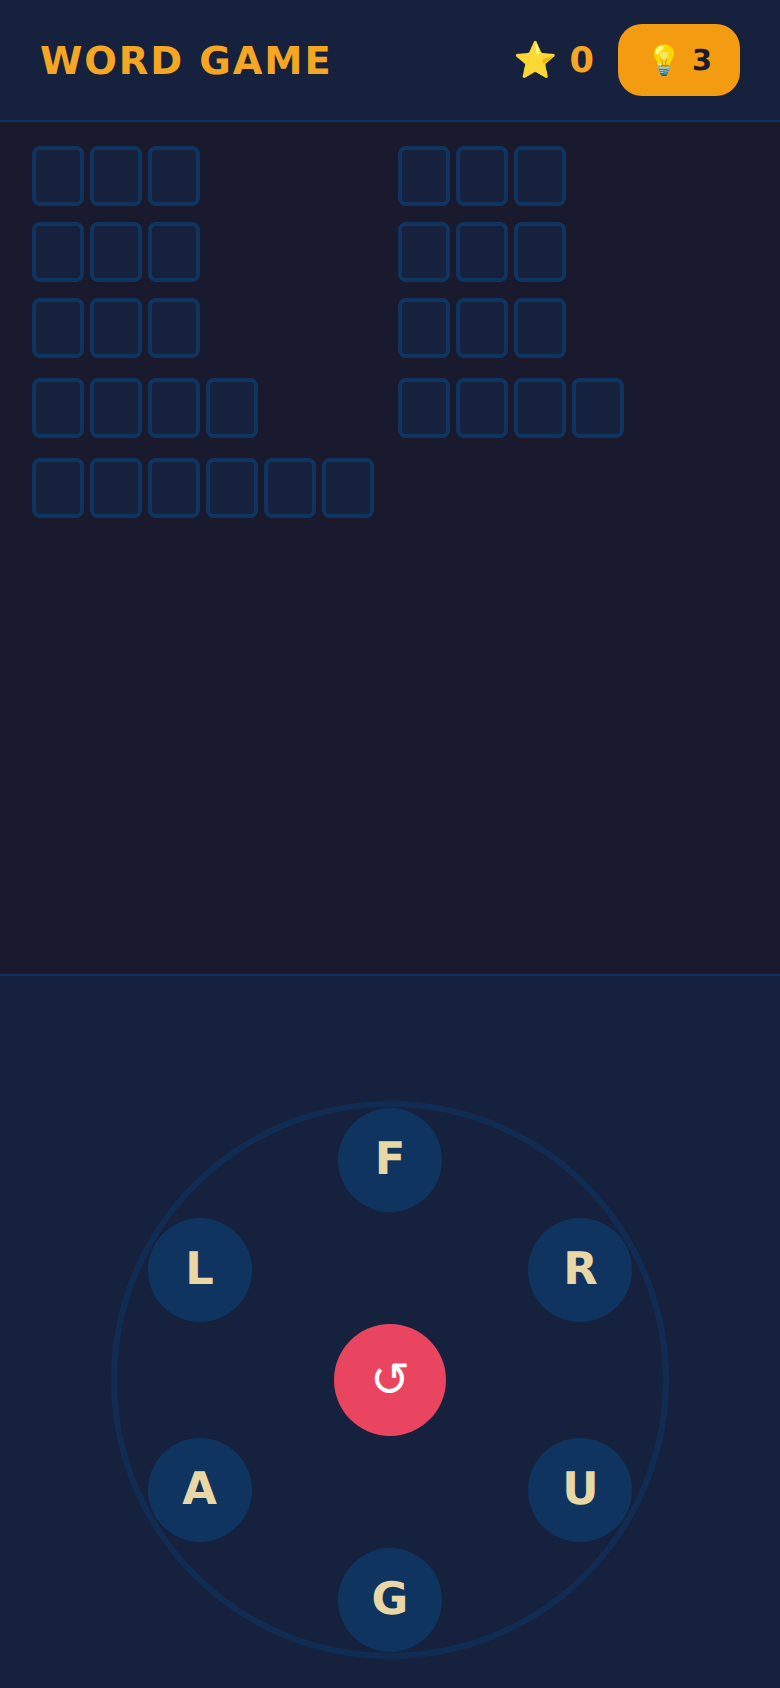
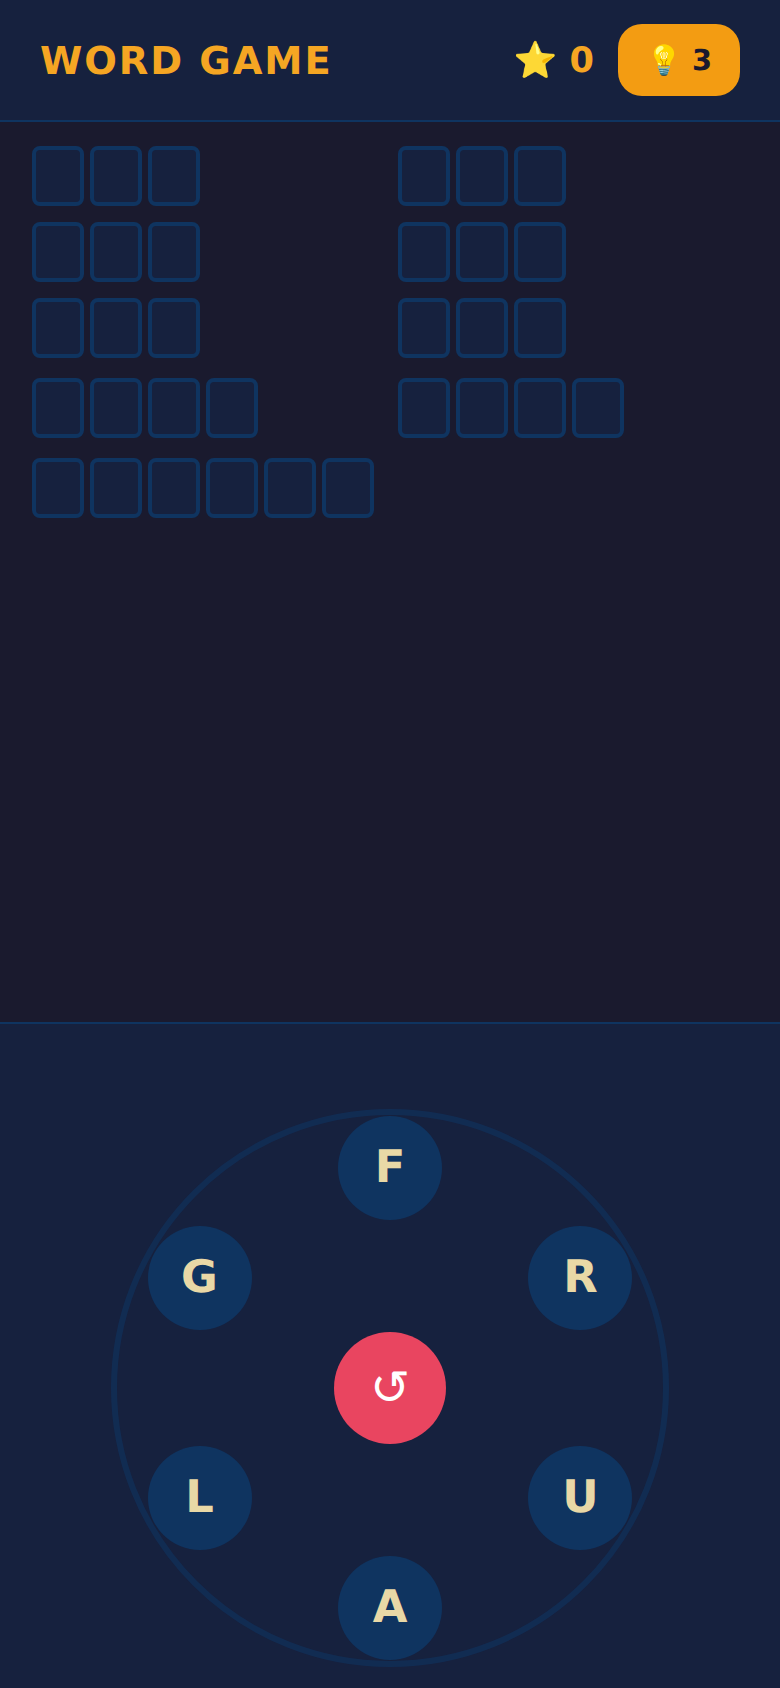
Fix shuffle touch, add live trail, unwind, shuffle on load, reduce padding
- Fix shuffle button: stop touch propagation so it works on mobile
- Add live dashed line from last-selected letter to finger position (DOM
  mutation via ref to avoid re-renders on every touch move)
- Implement unwind: tracing back over a previously-selected letter pops
  the selection back to that point (new UNWIND_TO reducer action)
- Keep selectedIndices fresh in touch callbacks via a ref mirror
- Shuffle letters on initial state creation (not just on button press)
- Tighten current-word area: reduce min-height 40→28px, remove margin,
  reduce container top padding 8→4px
- Add .wheel-live-tip CSS for the dashed trail

https://claude.ai/code/session_01Bzhj5B3CsGjHdkBdXPirvB

diff --git a/src/components/LetterWheel.tsx b/src/components/LetterWheel.tsx
@@ -6,6 +6,7 @@ interface LetterWheelProps {
   letters: string[]
   selectedIndices: number[]
   onLetterSelect: (index: number) => void
+  onUnwindTo: (index: number) => void
   onSubmit: () => void
   onShuffle: () => void
   currentWord: string
@@ -32,14 +33,19 @@ export default function LetterWheel({
   letters,
   selectedIndices,
   onLetterSelect,
+  onUnwindTo,
   onSubmit,
   onShuffle,
   currentWord,
   isShaking = false,
 }: LetterWheelProps) {
   const wrapperRef = useRef<HTMLDivElement>(null)
+  const svgLiveTipRef = useRef<SVGLineElement>(null)
   const lastDragIndex = useRef<number | null>(null)
   const isDragging = useRef(false)
+  // Keep a ref to selectedIndices so touch callbacks always see the latest value
+  const selectedIndicesRef = useRef(selectedIndices)
+  selectedIndicesRef.current = selectedIndices
 
   // Build SVG path string tracing selected letters in order
   const pathPoints = selectedIndices.map(i => {
@@ -77,7 +83,13 @@ export default function LetterWheel({
     const idx = letterIndexAtPoint(svgPt.x, svgPt.y, letters, WHEEL_CONFIG, HIT_RADIUS)
     if (idx !== null && idx !== lastDragIndex.current) {
       lastDragIndex.current = idx
-      onLetterSelect(idx)
+      const prevPos = selectedIndicesRef.current.indexOf(idx)
+      if (prevPos !== -1) {
+        // Traced back over an already-selected letter — unwind to that position
+        onUnwindTo(idx)
+      } else {
+        onLetterSelect(idx)
+      }
     }
   }
 
@@ -97,6 +109,20 @@ export default function LetterWheel({
     e.preventDefault()
     const touch = e.touches[0]
     handleDragPoint(touch.clientX, touch.clientY)
+    // Draw live line from last-selected letter to current finger position
+    const el = svgLiveTipRef.current
+    const lastIdx = lastDragIndex.current
+    if (el && lastIdx !== null && wrapperRef.current) {
+      const rect = wrapperRef.current.getBoundingClientRect()
+      const svgX = (touch.clientX - rect.left) * (CONTAINER_SIZE / rect.width)
+      const svgY = (touch.clientY - rect.top) * (CONTAINER_SIZE / rect.height)
+      const angle = (TWO_PI * lastIdx) / letters.length - Math.PI / 2
+      el.setAttribute('x1', String(WHEEL_CX + WHEEL_RADIUS * Math.cos(angle)))
+      el.setAttribute('y1', String(WHEEL_CY + WHEEL_RADIUS * Math.sin(angle)))
+      el.setAttribute('x2', String(svgX))
+      el.setAttribute('y2', String(svgY))
+      el.setAttribute('visibility', 'visible')
+    }
   // eslint-disable-next-line react-hooks/exhaustive-deps
   }, [letters, onLetterSelect])
 
@@ -104,6 +130,7 @@ export default function LetterWheel({
     e.preventDefault()
     isDragging.current = false
     lastDragIndex.current = null
+    svgLiveTipRef.current?.setAttribute('visibility', 'hidden')
     if (currentWord.length >= 3) {
       onSubmit()
     }
@@ -136,6 +163,9 @@ export default function LetterWheel({
           {pathD && (
             <path d={pathD} className="wheel-trace" strokeLinecap="round" strokeLinejoin="round" />
           )}
+
+          {/* Live tip: dashed line from last selected letter to finger */}
+          <line ref={svgLiveTipRef} className="wheel-live-tip" x1="0" y1="0" x2="0" y2="0" visibility="hidden" strokeLinecap="round" />
 
           {/* Dot at each selected letter */}
           {pathPoints.map((p, i) => (
@@ -172,6 +202,8 @@ export default function LetterWheel({
           <button
             className="wheel-center"
             onClick={onShuffle}
+            onTouchStart={(e) => e.stopPropagation()}
+            onTouchEnd={(e) => { e.preventDefault(); e.stopPropagation(); onShuffle() }}
             aria-label="Shuffle letters"
             data-testid="shuffle-btn"
           >

diff --git a/src/hooks/useGameState.ts b/src/hooks/useGameState.ts
@@ -25,7 +25,7 @@ function shuffleArray<T>(arr: T[]): T[] {
 
 function createInitialState(puzzle: Puzzle): GameState {
   return {
-    puzzle,
+    puzzle: { ...puzzle, letters: shuffleArray(puzzle.letters) },
     foundWords: [],
     currentInput: [],
     selectedIndices: [],
@@ -46,6 +46,16 @@ function gameReducer(state: GameState, action: GameAction): GameState {
         ...state,
         currentInput: [...state.currentInput, letter],
         selectedIndices: [...state.selectedIndices, action.index],
+      }
+    }
+
+    case 'UNWIND_TO': {
+      const pos = state.selectedIndices.indexOf(action.index)
+      if (pos === -1) return state
+      return {
+        ...state,
+        selectedIndices: state.selectedIndices.slice(0, pos + 1),
+        currentInput: state.currentInput.slice(0, pos + 1),
       }
     }
 
@@ -89,6 +99,7 @@ export type HintResult = 'hinted' | 'no_hints' | 'no_words'
 export interface UseGameStateReturn {
   state: GameState
   selectLetter: (index: number) => void
+  unwindTo: (index: number) => void
   clearInput: () => void
   submitWord: () => SubmitResult
   shuffleWheel: () => void
@@ -101,6 +112,10 @@ export function useGameState(puzzle: Puzzle): UseGameStateReturn {
 
   const selectLetter = useCallback((index: number) => {
     dispatch({ type: 'SELECT_LETTER', index })
+  }, [])
+
+  const unwindTo = useCallback((index: number) => {
+    dispatch({ type: 'UNWIND_TO', index })
   }, [])
 
   const clearInput = useCallback(() => {
@@ -150,5 +165,5 @@ export function useGameState(puzzle: Puzzle): UseGameStateReturn {
     state.puzzle.words.length > 0 &&
     state.puzzle.words.every(w => state.foundWords.includes(w))
 
-  return { state, selectLetter, clearInput, submitWord, shuffleWheel, useHint, isPuzzleComplete }
+  return { state, selectLetter, unwindTo, clearInput, submitWord, shuffleWheel, useHint, isPuzzleComplete }
 }

diff --git a/src/styles/letterWheel.css b/src/styles/letterWheel.css
@@ -3,13 +3,13 @@
   display: flex;
   flex-direction: column;
   align-items: center;
-  padding: 8px 0 4px;
+  padding: 4px 0 0;
   user-select: none;
 }
 
 /* ─── Current word preview ──────────────────────────────── */
 .current-word {
-  min-height: 40px;
+  min-height: 28px;
   display: flex;
   align-items: center;
   justify-content: center;
@@ -18,7 +18,6 @@
   letter-spacing: 0.15em;
   text-transform: uppercase;
   color: var(--color-accent2);
-  margin-bottom: 4px;
 }
 
 /* ─── Wheel wrapper (SVG + buttons) ─────────────────────── */
@@ -53,6 +52,15 @@
 
 .wheel-dot {
   fill: var(--color-accent2);
+}
+
+/* ─── Live tip (finger trail) ───────────────────────────── */
+.wheel-live-tip {
+  stroke: var(--color-accent2);
+  stroke-width: 2;
+  stroke-dasharray: 5 5;
+  opacity: 0.45;
+  pointer-events: none;
 }
 
 /* ─── Letter buttons overlay ────────────────────────────── */

diff --git a/src/components/Game.tsx b/src/components/Game.tsx
@@ -34,7 +34,7 @@ export default function Game() {
   const initialPuzzleIndex = saved?.puzzleIndex ?? 0
   const puzzle = puzzles[initialPuzzleIndex % puzzles.length]
 
-  const { state, selectLetter, submitWord, shuffleWheel, useHint, isPuzzleComplete } =
+  const { state, selectLetter, unwindTo, submitWord, shuffleWheel, useHint, isPuzzleComplete } =
     useGameState(puzzle)
 
   const [feedback, setFeedback] = useState<FeedbackKind>(null)
@@ -154,6 +154,7 @@ export default function Game() {
           letters={state.puzzle.letters}
           selectedIndices={state.selectedIndices}
           onLetterSelect={selectLetter}
+          onUnwindTo={unwindTo}
           onSubmit={handleSubmit}
           onShuffle={shuffleWheel}
           currentWord={state.currentInput.join('')}

diff --git a/src/types.ts b/src/types.ts
@@ -18,6 +18,7 @@ export interface GameState {
 
 export type GameAction =
   | { type: 'SELECT_LETTER'; index: number }
+  | { type: 'UNWIND_TO'; index: number }
   | { type: 'CLEAR_INPUT' }
   | { type: 'SUBMIT_WORD' }
   | { type: 'SHUFFLE_WHEEL' }
